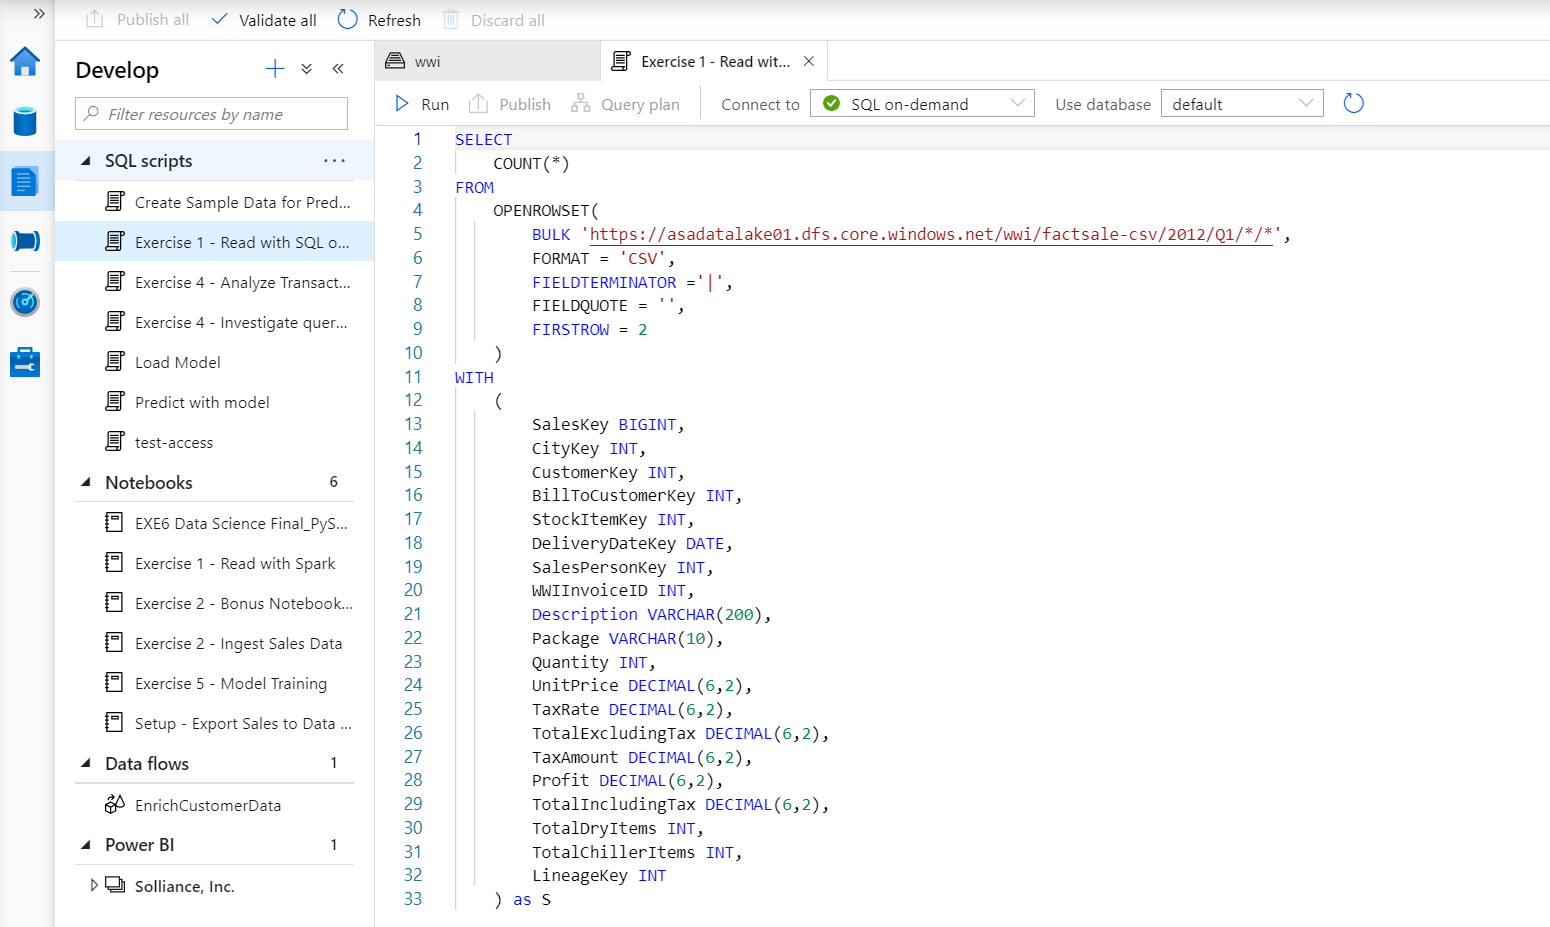
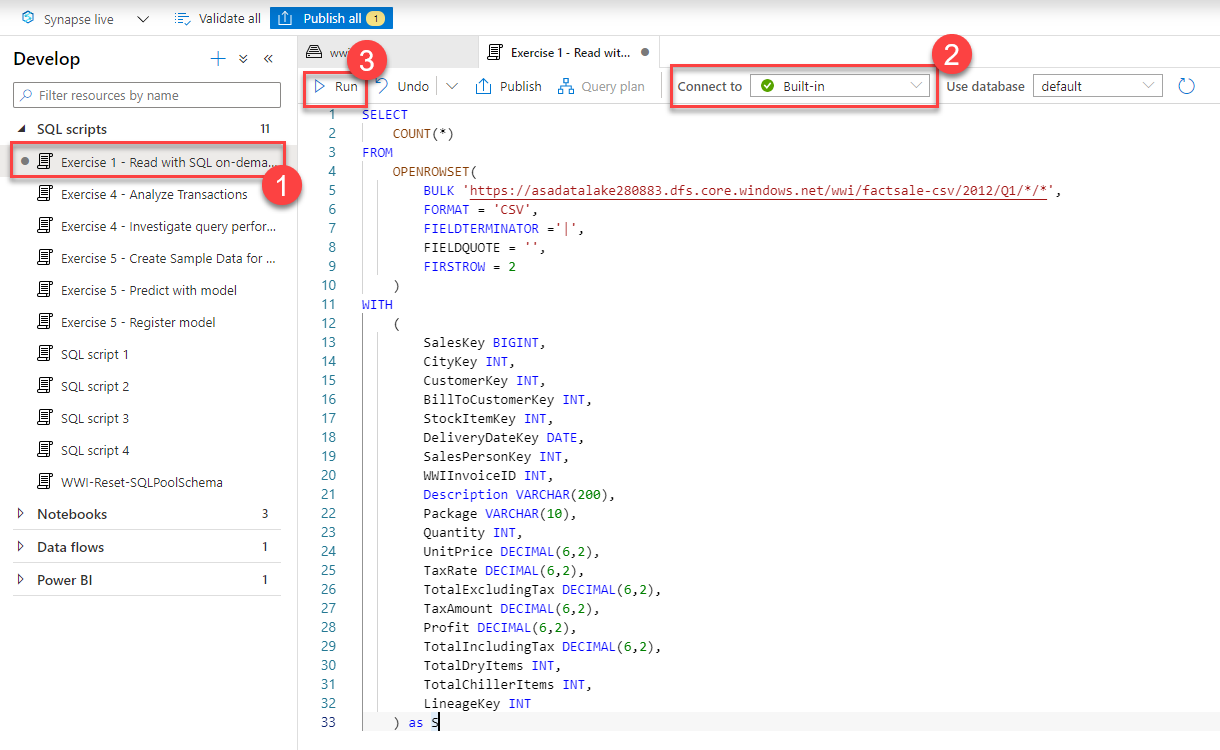
Lab 1 QA Round 2 Updates

diff --git a/01-explore-data-lake.md b/01-explore-data-lake.md
@@ -79,7 +79,7 @@ In this task, you will browse your data lake using serverless SQL pool.
 
     ![Develop hub.](media/develop-hub.png "Develop hub")
 
-14. Select the `Exercise 1 - Read with SQL on-demand` SQL script. Connect to **Built-in** and select **SQLOnDemand01** as the database. Select **Run** to execute the script.
+14. Select the `Exercise 1 - Read with SQL on-demand` **(1)** SQL script. Connect to **Built-in (2)**. Select **Run (3)** to execute the script.
 
     ![Run SQL on-demand script loading multiple CSV data lake files](./media/ex01-sql-on-demand-04.png)
 
